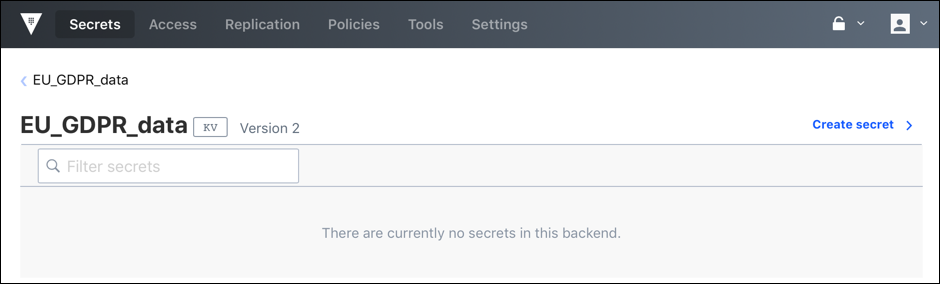
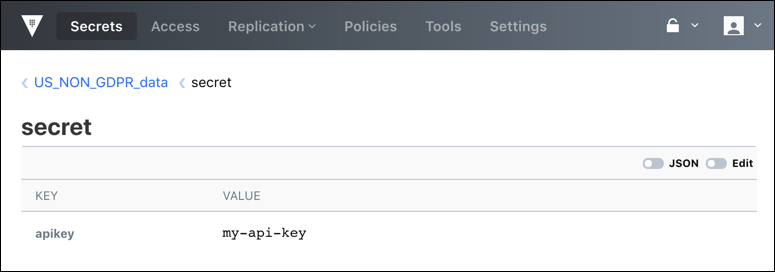
Added more details

diff --git a/website/source/guides/operations/mount-filter.html.md b/website/source/guides/operations/mount-filter.html.md
@@ -11,13 +11,13 @@ description: |-
 
 ~> **Enterprise Only:** Mount filter feature is a part of _Vault Enterprise Premium_.
 
-Mount filters are a new way of controlling which secrets are moved across clusters
-and physical regions as a result of replication. With mount filters, users can
-select which mounts will be replicated as part of a performance replication
-relationship.
+Mount filters are a new way of controlling which secrets are moved across
+clusters and physical regions as a result of replication. With mount filters,
+users can select which secret engines will be replicated as part of a
+performance replication relationship.
 
 By default, all non-local secret engines and associated data are replicated as
-part of replication. The mount filter feature allows users to whitelist and/or
+part of replication. The mount filter feature allows users to whitelist or
 blacklist which secret engines are replicated, thereby allowing users to further
 control the movement of secrets across their infrastructure.
 
@@ -29,6 +29,7 @@ control the movement of secrets across their infrastructure.
 - Preparing for GDPR Compliance with HashiCorp Vault [webinar](https://www.hashicorp.com/resources/preparing-for-gdpr-compliance-with-hashicorp-vault)
 - Preparing for GDPR Compliance with HashiCorp Vault [blog post](https://www.hashicorp.com/blog/preparing-for-gdpr-compliance-with-hashicorp-vault)  
 - [Create Mounts Filter (API)](/api/system/replication-performance.html#create-mounts-filter)
+- [Performance Replication and Disaster Recovery (DR) Replication](/docs/enterprise/replication/index.html#performance-replication-and-disaster-recovery-dr-replication)
 
 ## Estimated Time to Complete
 
@@ -36,7 +37,7 @@ control the movement of secrets across their infrastructure.
 
 ## Challenge
 
-[General Data Protection Regulation (GDPR)](https://www.eugdpr.org/) is designed
+[**General Data Protection Regulation (GDPR)**](https://www.eugdpr.org/) is designed
 to strengthen data protection and privacy for all individuals within the
 European Union.  It requires that personally identifiable data not be physically
 transferred to locations outside the European Union unless the region or country
@@ -48,16 +49,13 @@ the global annual revenue (whichever greater).
 
 ## Solution
 
-Vault's mount filter feature allows users to specify which secret engines are
-replicated as a part of the [performance
-replication](/guides/operations/reference-architecture.html#vault-replication).
+Leverage Vault's **mount filter** feature to abide by data movements and
+sovereignty regulations while ensuring performance access across geographically
+distributed regions.
 
-Leverage this feature to abide by data movements and sovereignty regulations
-while ensuring performance access across geographically distributed regions.
-
-Watch the recording of [***Preparing for GDPR Compliance with HashiCorp
+The [***Preparing for GDPR Compliance with HashiCorp
 Vault***](https://www.hashicorp.com/resources/preparing-for-gdpr-compliance-with-hashicorp-vault)
-webinar.
+webinar discusses the GDPR compliance further in details.
 
 [![YouTube](/assets/images/vault-mount-filter.png)](https://youtu.be/hmf6sN4W8pE)
 
@@ -67,33 +65,33 @@ This intermediate Vault operations guide assumes that you have some working
 knowledge of Vault.
 
 You need two Vault Enterprise clusters: one representing the EU cluster, and
-another representing the US cluster.
+another representing the US cluster both backed by Consul for storage.
 
 
 ## Steps
 
-The scenario here is that you have a Vault cluster in EU and wish to span across
-the United States by setting up a secondary cluster and enable the performance
-replication. However, some data must remain in EU and should not be replicated
-to the US cluster.
+**Scenario:**  You have a Vault cluster in EU and wish to span across the United
+States by setting up a secondary cluster and enable the performance
+replication. However, some data must remain in EU and should ***not*** be
+replicated to the US cluster.
 
 ![Guide Scenario](/assets/images/vault-mount-filter-0.png)
 
-Leverage the mount filter feature to whitelist or blacklist secrets engines from
-being replicated across the regions.
+Leverage the mount filter feature to blacklist the secrets, that are subject to
+GDPR, from being replicated across the regions.
 
 1. [Segment GDPR and non-GDPR secret engines](#step1)
 1. [Enable performance replication with mount filter](#step2)
 1. [Verify the replication mount filter](#step3)
 1. [Enable a local secret engine](#step4)
 
-~> Ensure GDPR data is segmented by secret mount and blacklist the movement of
-those secret mounts to non-GDPR territories.
+~> **NOTE:** Ensure that GDPR data is segmented by secret mount and blacklist
+the movement of those secret mounts to non-GDPR territories.
 
 
 ### <a name="step1"></a>Step 1: Segment GDPR and non-GDPR secret engines
 
-Enable key/value secret engines:
+In the EU cluster (primary cluster), enable key/value secret engines:
 
 - At **`EU_GDPR_data`** for GDPR data
 - At **`US_NON_GDPR_data`** for non-GDPR data localized for US
@@ -166,7 +164,7 @@ Click **Enable Engine** to complete.
     wrapping_token_creation_path:    sys/replication/performance/primary/secondary-token
     ```
 
-1. Create a mount filter to blacklist `EU_GDPR_data`.
+1. Create a **mount filter** to blacklist `EU_GDPR_data`.
 
     ```plaintext
     $ vault write sys/replication/performance/primary/mount-filter/secondary  \
@@ -178,9 +176,9 @@ Click **Enable Engine** to complete.
     ```plaintext
     $ vault write sys/replication/performance/secondary/enable token="..."
     ```
-    Where the token is the token obtained from the primary cluster.
+    Where the `token` is the `wrapping_token` obtained from the primary cluster.
 
-
+    !> **NOTE:** This will immediately clear all data in the secondary cluster.
 
 #### API call using cURL
 
@@ -199,7 +197,7 @@ Click **Enable Engine** to complete.
     $ curl --header "X-Vault-Token: ..." \
            --request POST \
            --data '{ "id": "secondary"}' \
-           https://eu-west-1.compute.com:8200/v1/sys/replication/performance/primary/secondary-token
+           https://eu-west-1.compute.com:8200/v1/sys/replication/performance/primary/secondary-token | jq
       {
        "request_id": "",
        "lease_id": "",
@@ -218,7 +216,7 @@ Click **Enable Engine** to complete.
      }
     ```
 
-1. Create a mount filter to blacklist `EU_GDPR_data`.
+1. Create a **mount filter** to blacklist `EU_GDPR_data`.
 
     ```plaintext
     $ tee payload.json <<EOF
@@ -249,8 +247,11 @@ Click **Enable Engine** to complete.
            https://us-central.compute.com:8201/v1/sys/replication/performance/secondary/enable
     ```
 
-    Where the token in `payload.json` is the token obtained from the primary
+    Where the `token` in `payload.json` is the token obtained from the primary
     cluster.
+
+    !> **NOTE:** This will immediately clear all data in the secondary cluster.
+
 
 #### Web UI
 
@@ -284,11 +285,43 @@ cluster.
 
 <br>
 
-~> **NOTE:** If the secondary is in an HA cluster, ensure that each standby is
-sealed and unsealed **with the primary’s unseal keys**. The secondary cluster
-mirrors the configuration of its primary cluster's backends such as auth
-methods, secret engines, audit devices, etc. It uses the primary as the
-_source of truth_ and pass token requests to the primary.
+~> **NOTE:** At this point, the secondary cluster must be unsealed using the
+**primary cluster's unseal key**. If the secondary is in an HA cluster, ensure
+that each standby is sealed and unsealed with the primary’s unseal keys. The
+secondary cluster mirrors the configuration of its primary cluster's backends
+such as auth methods, secret engines, audit devices, etc. It uses the primary as
+the _source of truth_ and ass token requests to the primary.
+
+
+Restart the secondary vault server (e.g. `https://us-central.compute.com:8201`)
+and unseal it with the primary cluster's unseal key.
+
+```plaintext
+$ vault operator unseal
+Unseal Key (will be hidden): <primary_cluster_unseal_key>
+```
+
+The initial root token on the secondary no longer works. Use the auth methods
+configured on the primary cluster to log into the secondary.
+
+**Example:**
+
+Enable and configure the userpass auth method on the **primary** cluster and
+create a new username and password.
+
+```shell
+# Enable the userpass auth method on the primary
+$ vault auth enable userpass
+
+# Create a user with admin policy
+$ vault write auth/userpass/users/james password="passw0rd" policy="admin"
+```
+
+Log into the **secondary** cluster using the enabled auth method.
+
+```plaintext
+$ vault login -method=userpass username=james password="passw0rd"
+```
 
 
 ### <a name="step3"></a>Step 3: Verify the replication mount filter
@@ -296,12 +329,9 @@ _source of truth_ and pass token requests to the primary.
 Once the replication completes, verify that the secrets stored in the
 `EU_GDPR_data` never get replicated to the US cluster.
 
-1. Create some secrets in the EU cluster at `EU_GDPR_data/`
-2. Log in the US cluster and verify that you don't see the data at `EU_GDPR_data/`
-
 #### CLI command
 
-On the **EU** cluster, write some secret:
+On the **EU** cluster, write some secrets:
 
 ```shell
 # Write some secret at EU_GDPR_data/secret
@@ -327,6 +357,7 @@ From the **US** cluster, read the secrets:
 
 ```shell
 # Read the secrets at EU_GDPR_data/secret
+$ vault kv get EU_GDPR_data/secret
 No value found at EU_GDPR_data/secret
 
 # Read the secrets at US_NON_GDPR_data/secret
@@ -419,12 +450,13 @@ Enter the values and click **Save**.  Repeat the step to write some secrets at
 the **US_NON_GDPR_data** path as well.
 
 
-On the **US** cluster, select **EU_GDPR_data**.
+On the **US** cluster, select **US_NON_GDPR_data**. You should be able to see
+the `apikey` under `US_NON_GDPR_data/secret`.
+
 ![Secrets](/assets/images/vault-mount-filter-13.png)
 
-The data is not replicated, so the UI displays "There are currently no secrets
-in this backend" message. But you should be able to see the `apikey` in the
-`US_NON_GDPR_data/secret` key.
+The **EU_GDPR_data** data is not replicated, so you won't be able to see the
+secrets.
 
 
 ### <a name="step4"></a>Step 4: Enable a local secret engine
